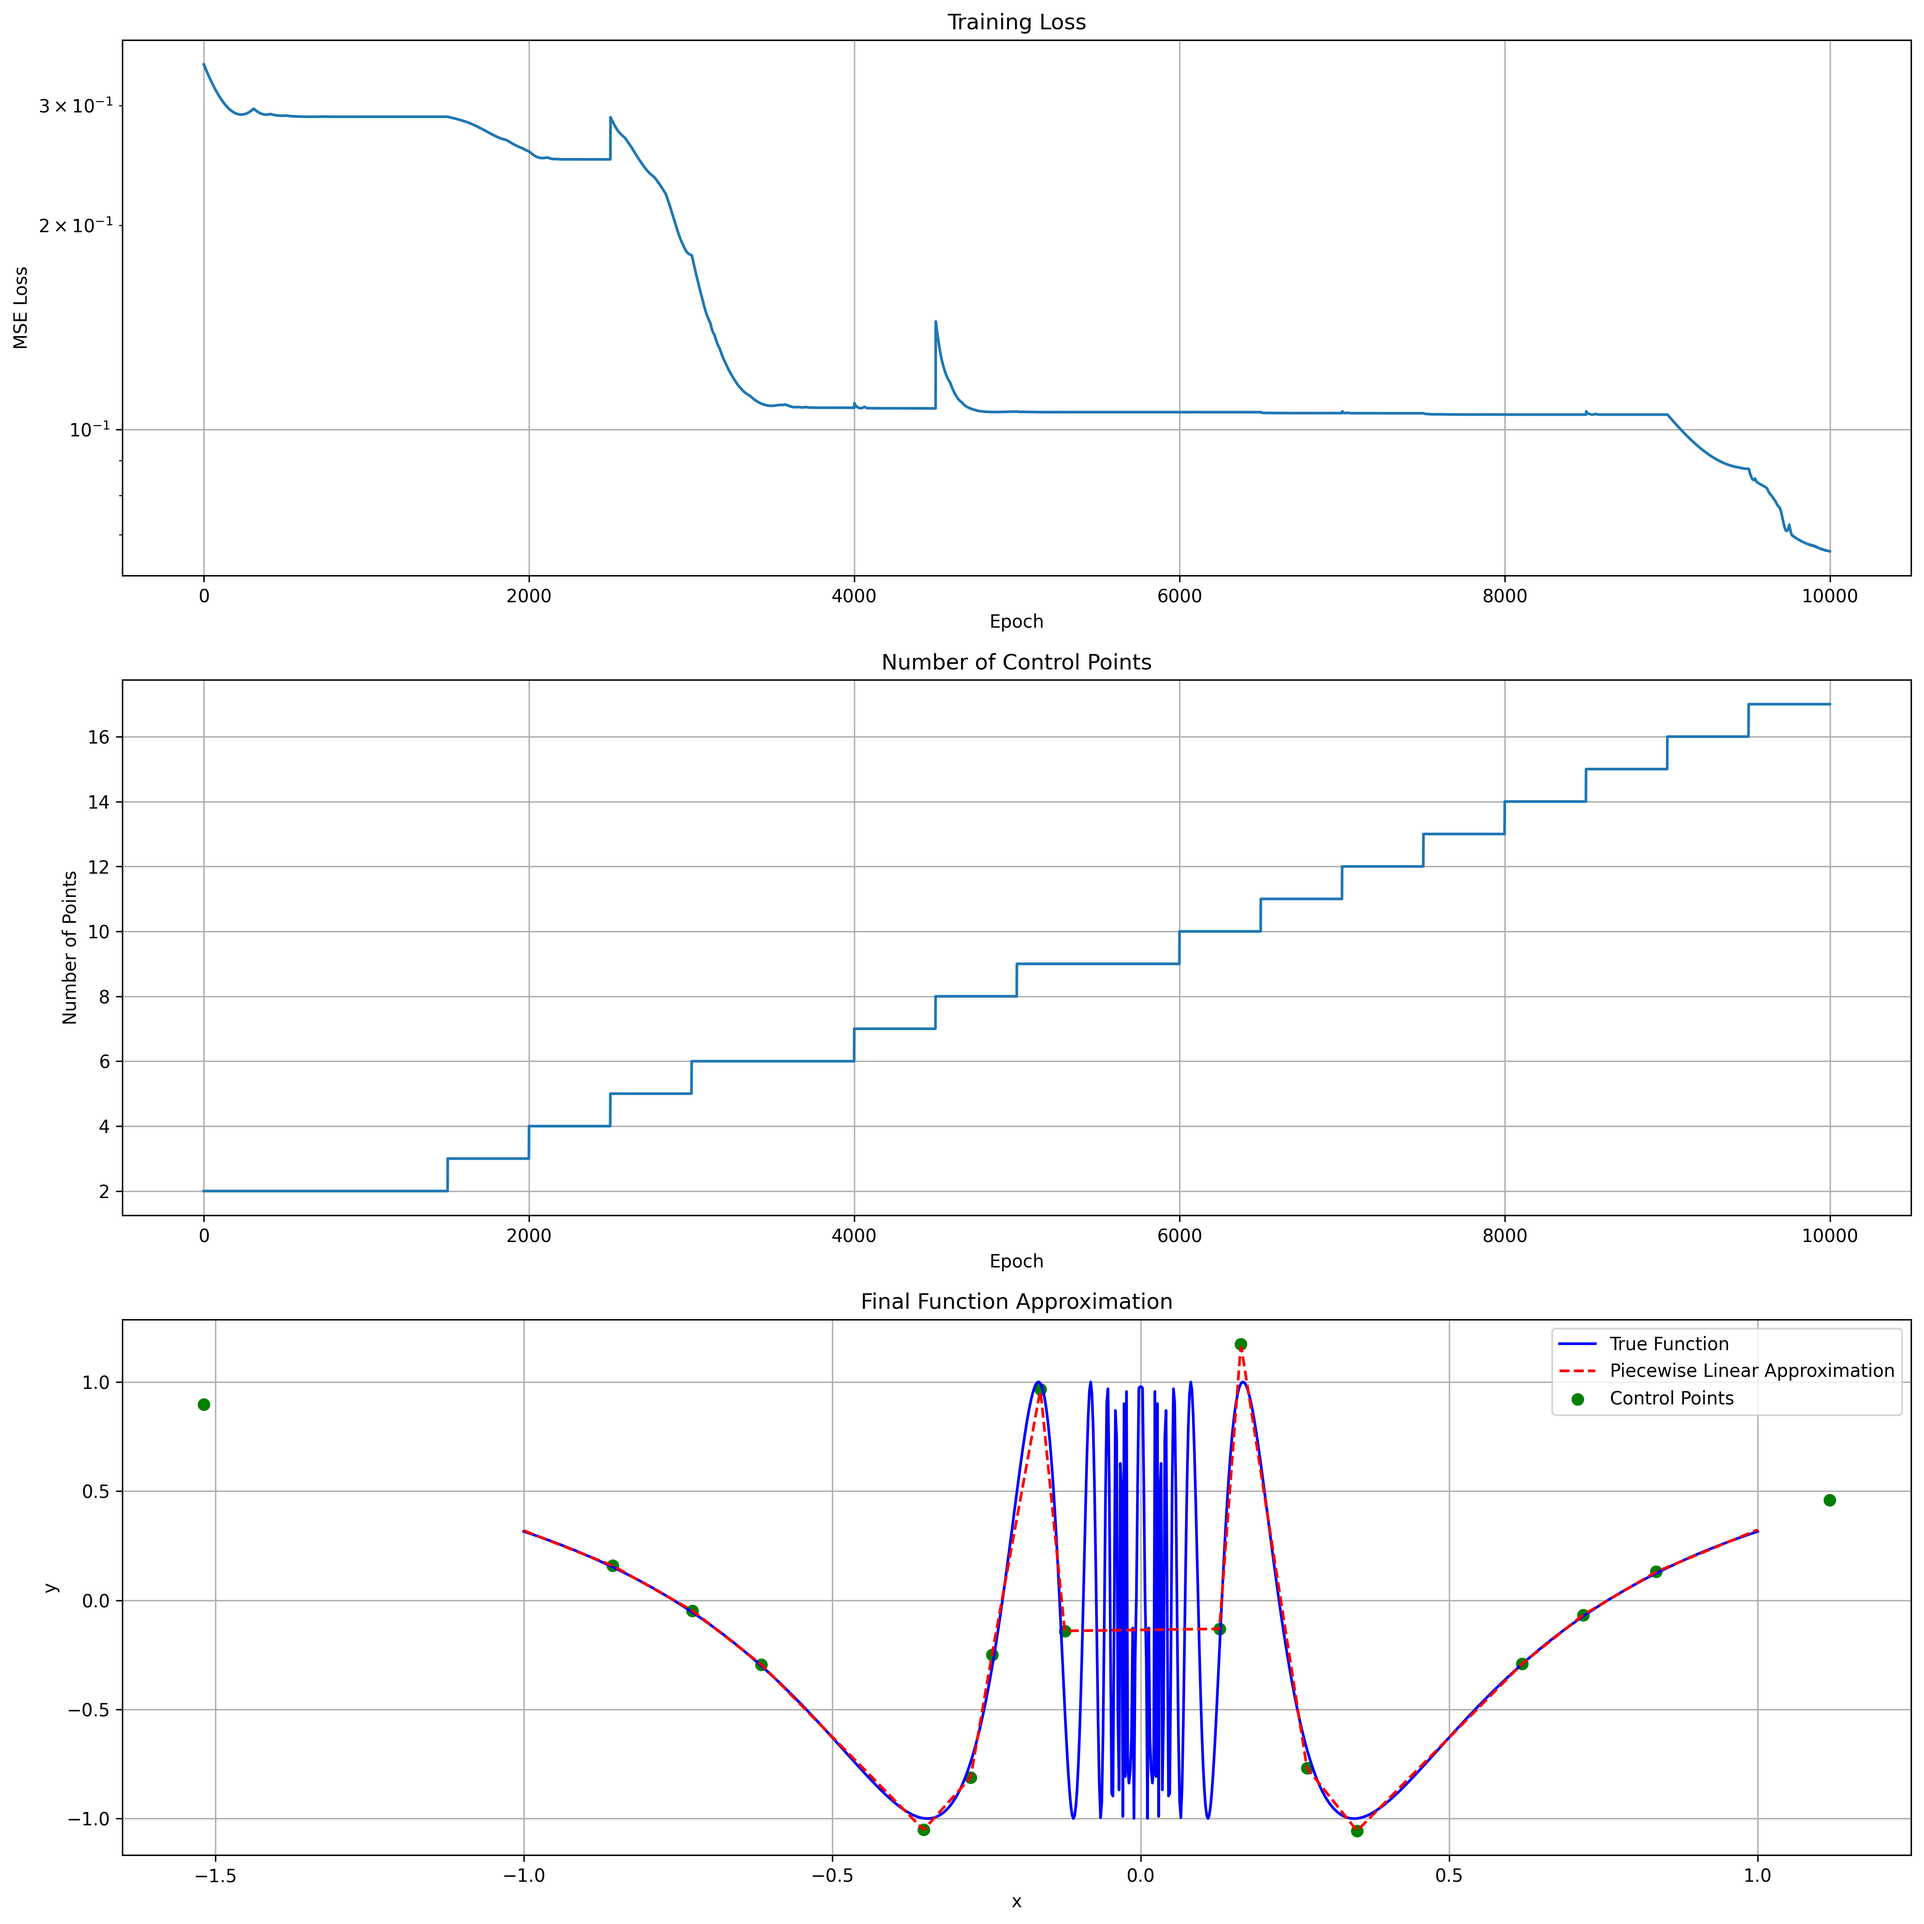
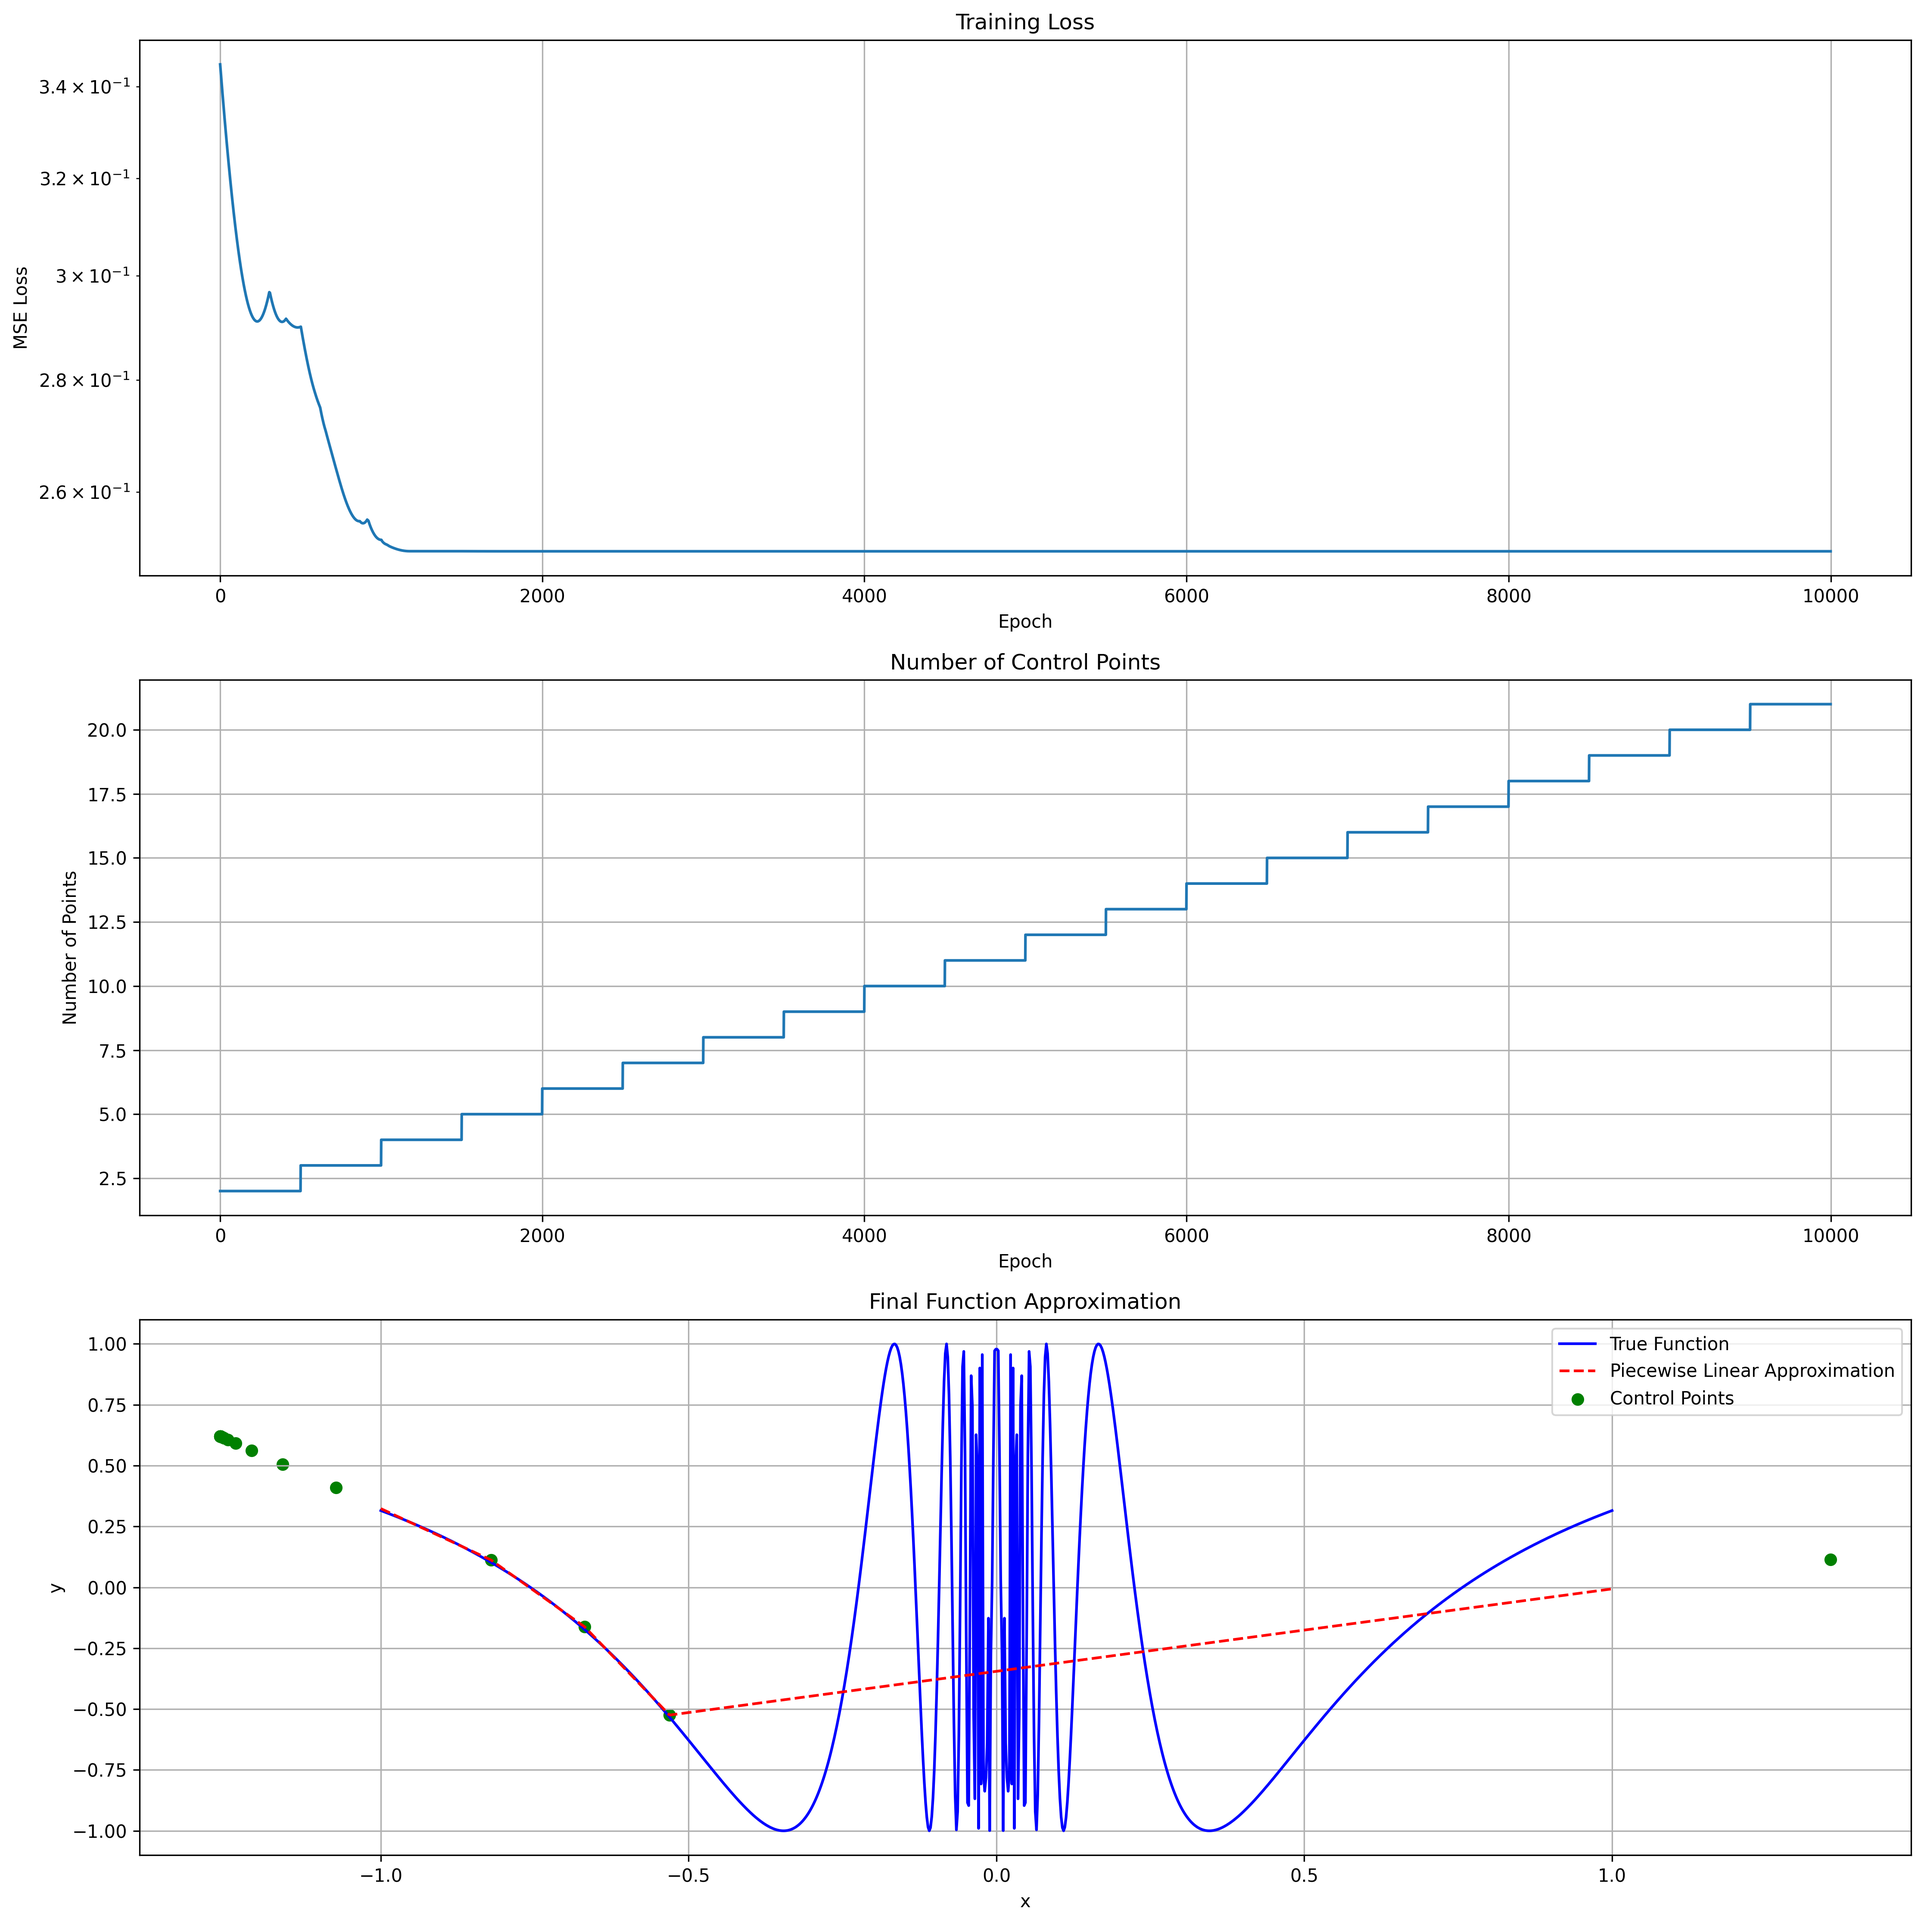
Working on split

diff --git a/non_uniform_piecewise_layers/piecewise_linear.py b/non_uniform_piecewise_layers/piecewise_linear.py
@@ -30,6 +30,23 @@ class NonUniformPiecewiseLinear(nn.Module):
         self.num_outputs = num_outputs
         self.num_points = num_points
 
+        # Register buffer for absolute gradient accumulation
+        self.register_buffer('abs_grad_accumulation', None)
+        
+        # Register the hook for gradient accumulation
+        def accumulate_abs_grad_hook(grad):
+            if self.abs_grad_accumulation is None:
+                self.abs_grad_accumulation = torch.zeros_like(grad)
+            self.abs_grad_accumulation += torch.abs(grad)
+            return grad
+        
+        self.values.register_hook(accumulate_abs_grad_hook)
+
+    def zero_abs_grad_accumulation(self):
+        """Zero out the accumulated absolute gradients."""
+        if self.abs_grad_accumulation is not None:
+            self.abs_grad_accumulation.zero_()
+
     def forward(self, x: torch.Tensor) -> torch.Tensor:
         """
         Forward pass of the layer.
@@ -128,12 +145,12 @@ class NonUniformPiecewiseLinear(nn.Module):
             This method should be called after a forward and backward pass,
             when gradients have been accumulated.
         """
-        if self.values.grad is None:
-            raise ValueError("No gradients available. Run backward() first.")
+        if self.abs_grad_accumulation is None:
+            raise ValueError("No absolute gradients accumulated. Run backward() first.")
             
         with torch.no_grad():
-            # Use absolute gradients of values as error estimate
-            abs_grads = torch.abs(self.values.grad)  # (num_inputs, num_outputs, num_points)
+            # Use accumulated absolute gradients as error estimate
+            abs_grads = self.abs_grad_accumulation  # (num_inputs, num_outputs, num_points)
             
             # Find the point with maximum gradient
             max_grad_flat = torch.argmax(abs_grads.view(-1))
@@ -166,6 +183,50 @@ class NonUniformPiecewiseLinear(nn.Module):
             new_positions[:, :, :self.num_points] = self.positions
             new_values[:, :, :self.num_points] = self.values
             
+
+            if split_strategy==2:  # split_strategy == 2
+                print(f"Strategy 2: point_idx={point_idx}, num_points={self.num_points}")
+                
+                if point_idx >= self.num_points - 1: 
+                    split_strategy=0
+                elif point_idx <= 0:
+                    split_strategy=1
+                
+                else:
+                    # Get the boundaries (points to left and right of max error point)
+                    left_boundary = old_positions[point_idx - 1]
+                    right_boundary = old_positions[point_idx + 1]
+                    interval_size = right_boundary - left_boundary
+                    
+                    print(f"Strategy 2: Boundaries: left={left_boundary}, right={right_boundary}")
+                    
+                    # Calculate positions for the two points (evenly spaced)
+                    first_third = left_boundary + interval_size / 3
+                    second_third = left_boundary + 2 * interval_size / 3
+                    
+                    print(f"Strategy 2: New positions: first={first_third}, second={second_third}")
+                    
+                    # Get the original values for interpolation
+                    left_val = old_values[point_idx - 1]
+                    right_val = old_values[point_idx + 1]
+                    
+                    # Linear interpolation for both points
+                    t1 = (first_third - left_boundary) / (right_boundary - left_boundary)
+                    t2 = (second_third - left_boundary) / (right_boundary - left_boundary)
+                    first_val = left_val + t1 * (right_val - left_val)
+                    second_val = left_val + t2 * (right_val - left_val)
+                    
+                    # Update the existing point's position and value
+                    new_positions[input_idx, output_idx, point_idx] = first_third
+                    new_values[input_idx, output_idx, point_idx] = first_val
+                    
+                    # Set up for inserting the second point
+                    new_pos = second_third
+                    new_value = second_val
+                    insert_idx = point_idx + 1
+            
+            
+            print('point_idx', point_idx,'split_strategy', split_strategy)
             # Calculate new point position based on strategy
             if split_strategy == 0 and point_idx > 0:
                 # Add point halfway to left neighbor
@@ -173,30 +234,16 @@ class NonUniformPiecewiseLinear(nn.Module):
                 curr_pos = old_positions[point_idx]
                 new_pos = (left_pos + curr_pos) / 2
                 insert_idx = point_idx
-            elif split_strategy == 1 and point_idx < self.num_points - 1:
+            elif split_strategy == 1 and point_idx < self.num_points-1:
                 # Add point halfway to right neighbor
                 curr_pos = old_positions[point_idx]
                 right_pos = old_positions[point_idx + 1]
                 new_pos = (curr_pos + right_pos) / 2
                 insert_idx = point_idx + 1
-            else:  # split_strategy == 2
-                if point_idx >= self.num_points - 1:
-                    return False
-                    
-                # Move current point left 1/3 and add new point 1/3 right
-                left_pos = old_positions[point_idx]
-                right_pos = old_positions[point_idx + 1]
-                interval_size = right_pos - left_pos
-                
-                # Update current point position (1/3 to the left)
-                new_positions[input_idx, output_idx, point_idx] = left_pos + interval_size / 3
-                
-                # New point position (1/3 to the right)
-                new_pos = right_pos - interval_size / 3
-                insert_idx = point_idx + 1
+            
             
             # Linearly interpolate to get the value at the new position
-            if insert_idx > 0:
+            if insert_idx > 0 and split_strategy != 2:  
                 left_pos = old_positions[insert_idx - 1]
                 left_val = old_values[insert_idx - 1]
                 right_pos = old_positions[insert_idx]
@@ -205,7 +252,7 @@ class NonUniformPiecewiseLinear(nn.Module):
                 # Linear interpolation
                 t = (new_pos - left_pos) / (right_pos - left_pos)
                 new_value = left_val + t * (right_val - left_val)
-            else:
+            elif insert_idx == 0 and split_strategy != 2:
                 # If inserting at the start, use the value of the first point
                 new_value = old_values[0]
             
@@ -223,4 +270,5 @@ class NonUniformPiecewiseLinear(nn.Module):
             self.values = nn.Parameter(new_values)
             self.num_points += 1
             
+            print(f"Successfully added point. New num_points: {self.num_points}")
             return True

diff --git a/examples/sine_fitting.py b/examples/sine_fitting.py
@@ -80,6 +80,7 @@ losses = []
 num_points_history = []
 for epoch in range(num_epochs):
     optimizer.zero_grad()
+    model.piecewise.zero_abs_grad_accumulation()  # Zero out absolute gradient accumulation
     output = model(x)
     loss = criterion(output, y)
     loss.backward()
@@ -87,8 +88,9 @@ for epoch in range(num_epochs):
     # Add a new point periodically if we haven't reached max_points
     if epoch > 0 and epoch % points_add_frequency == 0 and model.piecewise.num_points < max_points:
         # Try each split strategy in turn
-        strategy = (epoch // points_add_frequency) % 3
+        strategy = 2 #(epoch // points_add_frequency) % 3
         success = model.piecewise.add_point_at_max_error(split_strategy=strategy)
+        print('split_strategy', strategy)
         if success:
             print(f'Epoch {epoch}: Added point using strategy {strategy}. '
                   f'Now using {model.piecewise.num_points} points')
